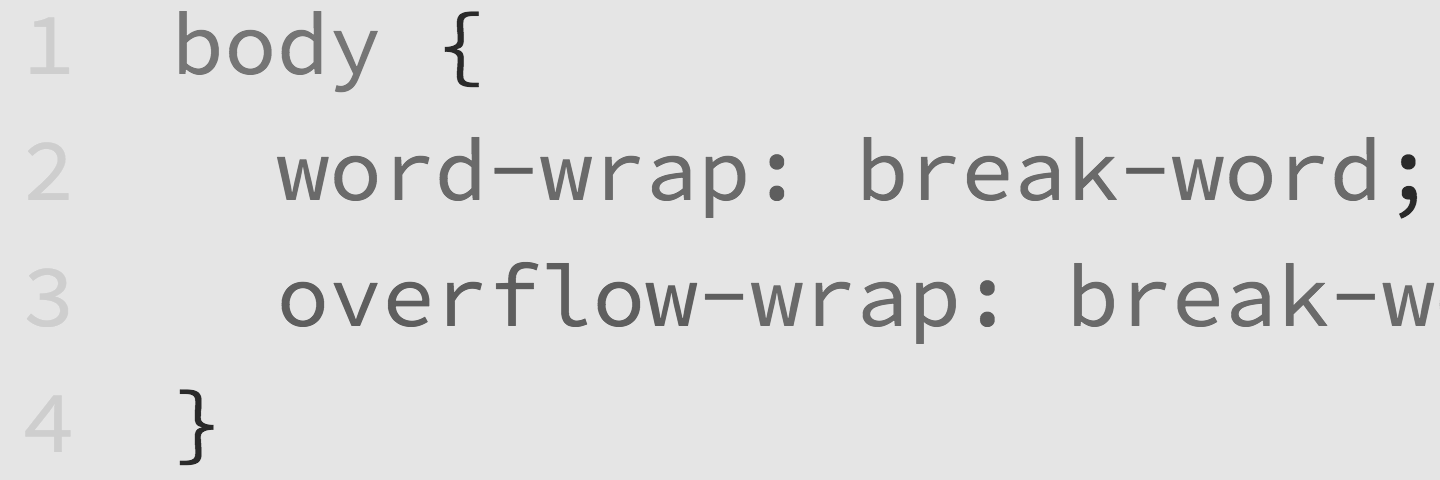
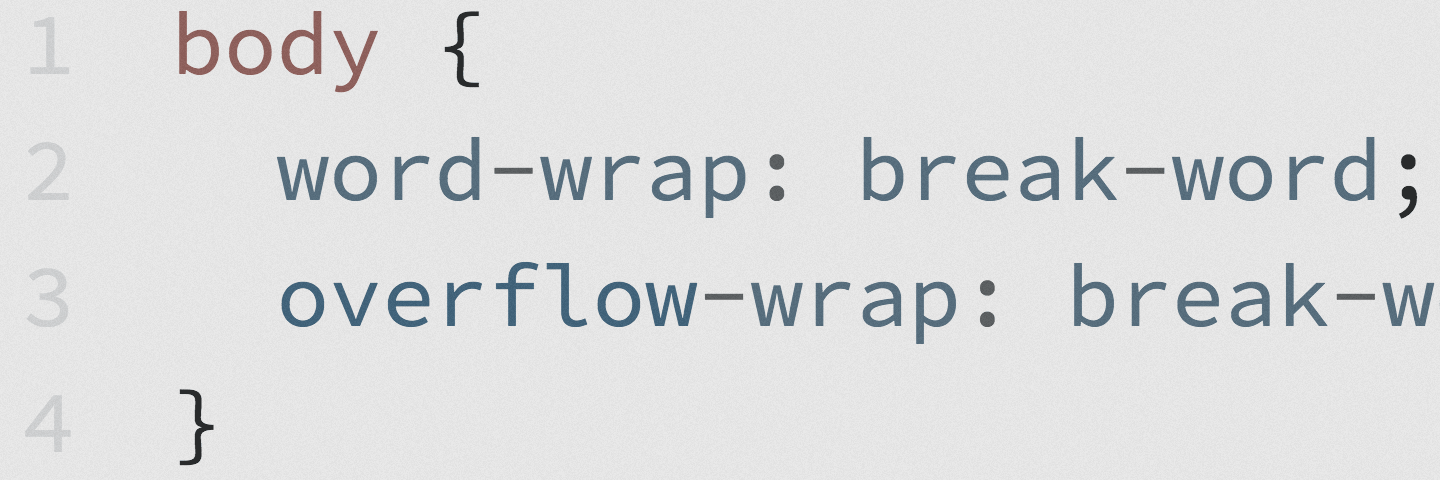
[edit] 'Design Better Responsive': new hero, and rewriting

Changed region(s): [[0.1875, 0.5312, 0.5, 0.6875], [0.125, 0.0312, 0.2812, 0.1875]]

diff --git a/_posts/2014-10-24-design-better-responsive-code.md b/_posts/2014-10-24-design-better-responsive-code.md
@@ -6,28 +6,30 @@ layout-option:
 code: true
 category: writing
 date: 2014-10-24 16:15
-updated: 2014-11-25 09:25
+updated: 2014-11-26 09:23
 image:
   - src: 2014-11-26-hero-design-better-css-desat.png
-    alt: 
+    alt: ''
   - src: 2014-11-25-word-wrap-code-breaking.png 
-    alt: A sample of layout-breaking code without word-wrap
+    alt: 'A sample of layout-breaking code without word-wrap'
   - src: 2014-11-25-break-word-code-breaking.png
-    alt: A sample of layout-breaking code without break-word
+    alt: 'A sample of layout-breaking code without break-word'
 
 ---
 
-Typography can be difficult to get right in a responsive design. Formatting code for readability with multiple types of content in various contexts is not easy, and the defaults are not on our side. Default user agent styles in browsers are useless for code, so it is important to optimize these styles when starting a project, such as a documentation project or technical blog. When we design responsive sites, we have to assume that readers want to look at code even on a small screen, so let us consider how code blocks or inline code are displayed.
+Typography can be difficult to get right in a responsive design. Formatting code for readability with multiple types of content in uncertain contexts is not easy, and the defaults are not on our side. Default user agent styles in browsers are nearly useless for code blocks, so it is important to optimize these styles when code blocks are needed for a project, such as a documentation project or technical blog. When we design responsive sites for a technical audience, we have to allow that some readers want to read code even on a small screen.
 
-Even if your CMS or site builder has code highlighting built in (like [Jekyll](http://jekyllrb.com) and [Pygments](http://pygments.org/), much more needs to be explicity designed. Responsive images are a big deal in responsive design implementation – a `max-width: 100%` delcaration solves quite a few problems with layouts. But many site layouts break when resized down to reasonable viewport widths, thanks to text flow styles. *Text*, and especially code, can easily break an otherwise adaptive layout. In some cases, text flows outside of the viewport and is rendered inacessible, or the page is forced to have overflow on the right, adding a scrollbar and breaking the 100% width layout. And it is not just code blocks – even a long URL can break in the comments section of a website without proper care.
+Even if a CMS or site builder has code highlighting built in (like [Jekyll](http://jekyllrb.com) with [Pygments](http://pygments.org/)), much more beyond that needs to be explicity designed. Images are a big deal in responsive design implementation. The `max-width: 100%` delcaration does a lot of heavy lifting in a fluid layout. But many site layouts break when resized down to reasonable viewport widths, because of text. *Text*, and especially code, can easily break an otherwise adaptive layout. In some cases, text flows outside of the viewport and is rendered inacessible, or the page is forced to have overflow on the right, adding a scrollbar and breaking the 100% width layout. And it is not only code blocks – even a long URL can break the layout of a website without proper care.
 
 So how do we fix this?
 
 ## Prevent breaking words and lines
 
-In this example for “front-end” web code blocks, I am including styles that are hopefully “bullet-proof” as far as breaking layout is concerned.[^1] `overflow-wrap: break-word` is applied to not just code samples, but to the entire `body`. `white-space: pre-wrap` is applied to all `code` and `pre` elements.
+In this example for “front-end” web code blocks, I am including styles that are hopefully “bullet-proof” as far as breaking layout is concerned.[^1] 
 
-For `white-space`, the default value `normal` definitely will not work. `pre-wrap` is far preferable to `line-wrap` since [the latter does not maintain sequences of white space](https://developer.mozilla.org/en-US/docs/Web/CSS/white-space), which is crucial for most code.
+`overflow-wrap: break-word` is applied universally, rather than solely to code samples. It is useful to make sure that very long words (or URLs – a common case) break to the next line instead of flowing beyond the 100% bounds of the page.
+
+`white-space: pre-wrap` is applied to all `<code>` and `<pre>` elements. The default value `white-space: normal` definitely will not work. `pre-wrap` is far preferable to `line-wrap` since [the latter does not maintain sequences of white space](https://developer.mozilla.org/en-US/docs/Web/CSS/white-space), which is crucial for most code.
 
 ### The defaults
 
@@ -61,15 +63,15 @@ Here is what a sample from this page looks like without `overflow-wrap: break-wo
   alt="{{ page.image[2].alt }}"
 >
 
-I think these samples speak for themselves to explain why this code is needed for a responsive code block. With both of them not implemented, nearly every code block on this page runs off the page, breaking the layout.
+I think these samples speak for themselves to explain why these declarations are needed for a responsive code block. With both of them not implemented, nearly every code block on this page runs off the page, breaking the layout on small and large screens alike.
 
 ## Nicer typography and spacing
 
 There is more to a well-designed responsive code block than line wrapping. One should also consider typography, color and proportion.
 
-My monospace font is [Adobe Source Code Pro](http://adobe-fonts.github.io/source-code-pro). It looks nice, and [it is free to use](http://www.google.com/fonts/specimen/Source+Code+Pro). To make sure that code blocks looks their best, I make sure that the monospace typeface for code is proportional to the rest of the typography on my site, so that is around .8125em on a site based on a 1em scale, depending somewhat on the monospace typeface.
+My monospace font is [Adobe Source Code Pro](http://adobe-fonts.github.io/source-code-pro). It is beautiful, and [it is free to use](http://www.google.com/fonts/specimen/Source+Code+Pro). To make sure that code blocks look their best, I set the monospace typeface to be proportional to the rest of the typography on my site – around .8125em for a site based on a 1em scale. This proportion works slightly differently depending on the typeface and weight chosen.
 
-I have plenty more styles used to make the code blocks work on this site [^2] but the following example highlights some fundamentals.
+I have many more styles used to make the code blocks work on this site [^2] but the following example highlights some fundamentals.
 
 ### Expanding on the defaults
 
@@ -102,26 +104,26 @@ samp {
 }
 
 pre > code {
-  font-size: 1em; /* prevents recursive .8125em from applying in common `<pre><code>` markup pattern */
+  font-size: 1em; /* prevents recursive .8125em from applying in common <pre><code> markup pattern */
   padding: 0;
 }
 {% endhighlight %}
-<figcaption><p><a href="https://github.com/opattison/olivermakes/blob/master/site.css#L295">View the latest version</a> of this CSS in full at the source.</p></figcaption>
+<figcaption><p><a href="https://github.com/opattison/olivermakes/blob/cc471fa92a270e4bc44423fd796ead2609005a40/site.css#L346">View the source CSS (as of {{ page.updated | date: '%B %d, %Y' }})</a> for a more detailed view of how code formatting is handled on this page.</p></figcaption>
 </figure>
 
 Notice how the long comments above wrap around the page. I have intentionally included long comments with no line breaks to show how they look in a code block. (The `.highlight` selector targets a class that Jekyll applies to `<div>` surrounding a `<pre>` block.)
 
 ### Why does HTML especially need this?
 
+The following HTML block sample has a long paragraph that illustrates the line-length issue. HTML commonly has long line-lengths where wrapping is essential for readability.
+
 {% highlight html linenos %}
-<p>This website uses a version of this CSS, so the code block above follows the same principle. Notice how the long comments above wrap around the page. I have intentionally included long comments with no line breaks to show how they look in a code block. The <code>.highlight</code> selector targets a class that Jekyll applies to <code>&lt;div&gt;</code> surrounding a <code>&lt;pre&gt;</code> block.</p>
+<p>My monospace font is <a href="http://adobe-fonts.github.io/source-code-pro">Adobe Source Code Pro</a>. It is beautiful, and <a href="http://www.google.com/fonts/specimen/Source+Code+Pro">it is free to use</a>. To make sure that code blocks look their best, I set the monospace typeface to be proportional to the rest of the typography on my site – around .8125em for a site based on a 1em scale. This proportion works slightly differently depending on the typeface and weight chosen.</p>
 
 <hr>
 
 <p>An example of <a href="http://example.com/areallylongurlthatwouldotherwisebreakwithoutbreakword">a really long string</a>.</p>
 {% endhighlight %}
-
-This HTML block sample has a long paragraph that illustrates the line-length issue. HTML commonly has long line-lengths where wrapping is essential for readability.
 
 ## Is there any other way to handle code blocks responsively?
 
@@ -149,7 +151,7 @@ Here it is in action, with the HTML sample from earlier:
 <div class="highlight">
   <pre style="overflow: scroll;">
     <code class="language-html" data-lang="html" style="word-wrap: normal; overflow-wrap: normal; white-space: pre">
-      <span class="lineno">1</span> <span class="nt">&lt;p&gt;</span>This website uses a version of this CSS, so the code block above follows the same principle. Notice how the long comments above wrap around the page. I have intentionally included long comments with no line breaks to show how they look in a code block. The <span class="nt">&lt;code&gt;</span>.highlight<span class="nt">&lt;/code&gt;</span> selector targets a class that Jekyll applies to <span class="nt">&lt;code&gt;</span><span class="ni">&amp;lt;</span>div<span class="ni">&amp;gt;</span><span class="nt">&lt;/code&gt;</span> surrounding a <span class="nt">&lt;code&gt;</span><span class="ni">&amp;lt;</span>pre<span class="ni">&amp;gt;</span><span class="nt">&lt;/code&gt;</span> block.<span class="nt">&lt;/p&gt;</span>
+      <span class="lineno">1</span> <span class="nt">&lt;p&gt;</span>My monospace font is <span class="nt">&lt;a</span> <span class="na">href=</span><span class="s">"http://adobe-fonts.github.io/source-code-pro"</span><span class="nt">&gt;</span>Adobe Source Code Pro<span class="nt">&lt;/a&gt;</span>. It is beautiful, and <span class="nt">&lt;a</span> <span class="na">href=</span><span class="s">"http://www.google.com/fonts/specimen/Source+Code+Pro"</span><span class="nt">&gt;</span>it is free to use<span class="nt">&lt;/a&gt;</span>. To make sure that code blocks look their best, I set the monospace typeface to be proportional to the rest of the typography on my site – around .8125em for a site based on a 1em scale. This proportion works slightly differently depending on the typeface and weight chosen.<span class="nt">&lt;/p&gt;</span>
       <span class="lineno">2</span> 
       <span class="lineno">3</span> <span class="nt">&lt;hr&gt;</span>
       <span class="lineno">4</span> 
@@ -160,5 +162,5 @@ Here it is in action, with the HTML sample from earlier:
 
 I believe this method is particularly poorly suited for HTML or any other code with comments in it. It is responsive, but not as adaptive to different screens as the `break-word` method.
 
-[^1]: I am focusing here on web front-end markup, since that is what I care most about, but I have not covered exceptions and use cases from other programming languages. The same principles should apply to some other contexts, but I have not tested them out thoroughly. I know that some programming languages have peculiarities with white space and line numbers, so this might have limited use for those cases. This technique prioritizes readability on small screens ahead of any other concerns so that readers do not have to suffer scrolling or tiny font sizes.
-[^2]: To get code highlighting to match my website, I designed a [custom base16 color pattern]({{ site.fragments-url }}/base16-olivermakes.html) for the site, which is generated into a [Pygments](http://pygments.org/) theme with [base16-builder](https://github.com/chriskempson/base16-builder). Also, take a look at [this site’s source](https://github.com/opattison/olivermakes/blob/master/site.css) for more examples.
+[^1]: I am focusing here on web front-end markup, since that is what I care most about. I have not covered exceptions and use cases from other programming languages. The same principles should apply to some other contexts, but I have not tested them out thoroughly. I know that some programming languages have peculiarities with white space and line numbers, so this might have limited use for those cases. I know that editing HTML in a text editor requires word wrapping; Python does not. This technique prioritizes readability on small screens *for the web* ahead of any other concerns so that readers do not have to suffer scrolling or tiny font sizes.
+[^2]: To get code highlighting to match my site’s design, I designed a [custom base16 color pattern]({{ site.fragments-url }}/base16-olivermakes.html), which is generated into a [Pygments](http://pygments.org/) theme with [base16-builder](https://github.com/chriskempson/base16-builder). Take a look at [this site’s source](https://github.com/opattison/olivermakes/blob/cc471fa92a270e4bc44423fd796ead2609005a40/site.css#L346) for more examples of code formatting.
